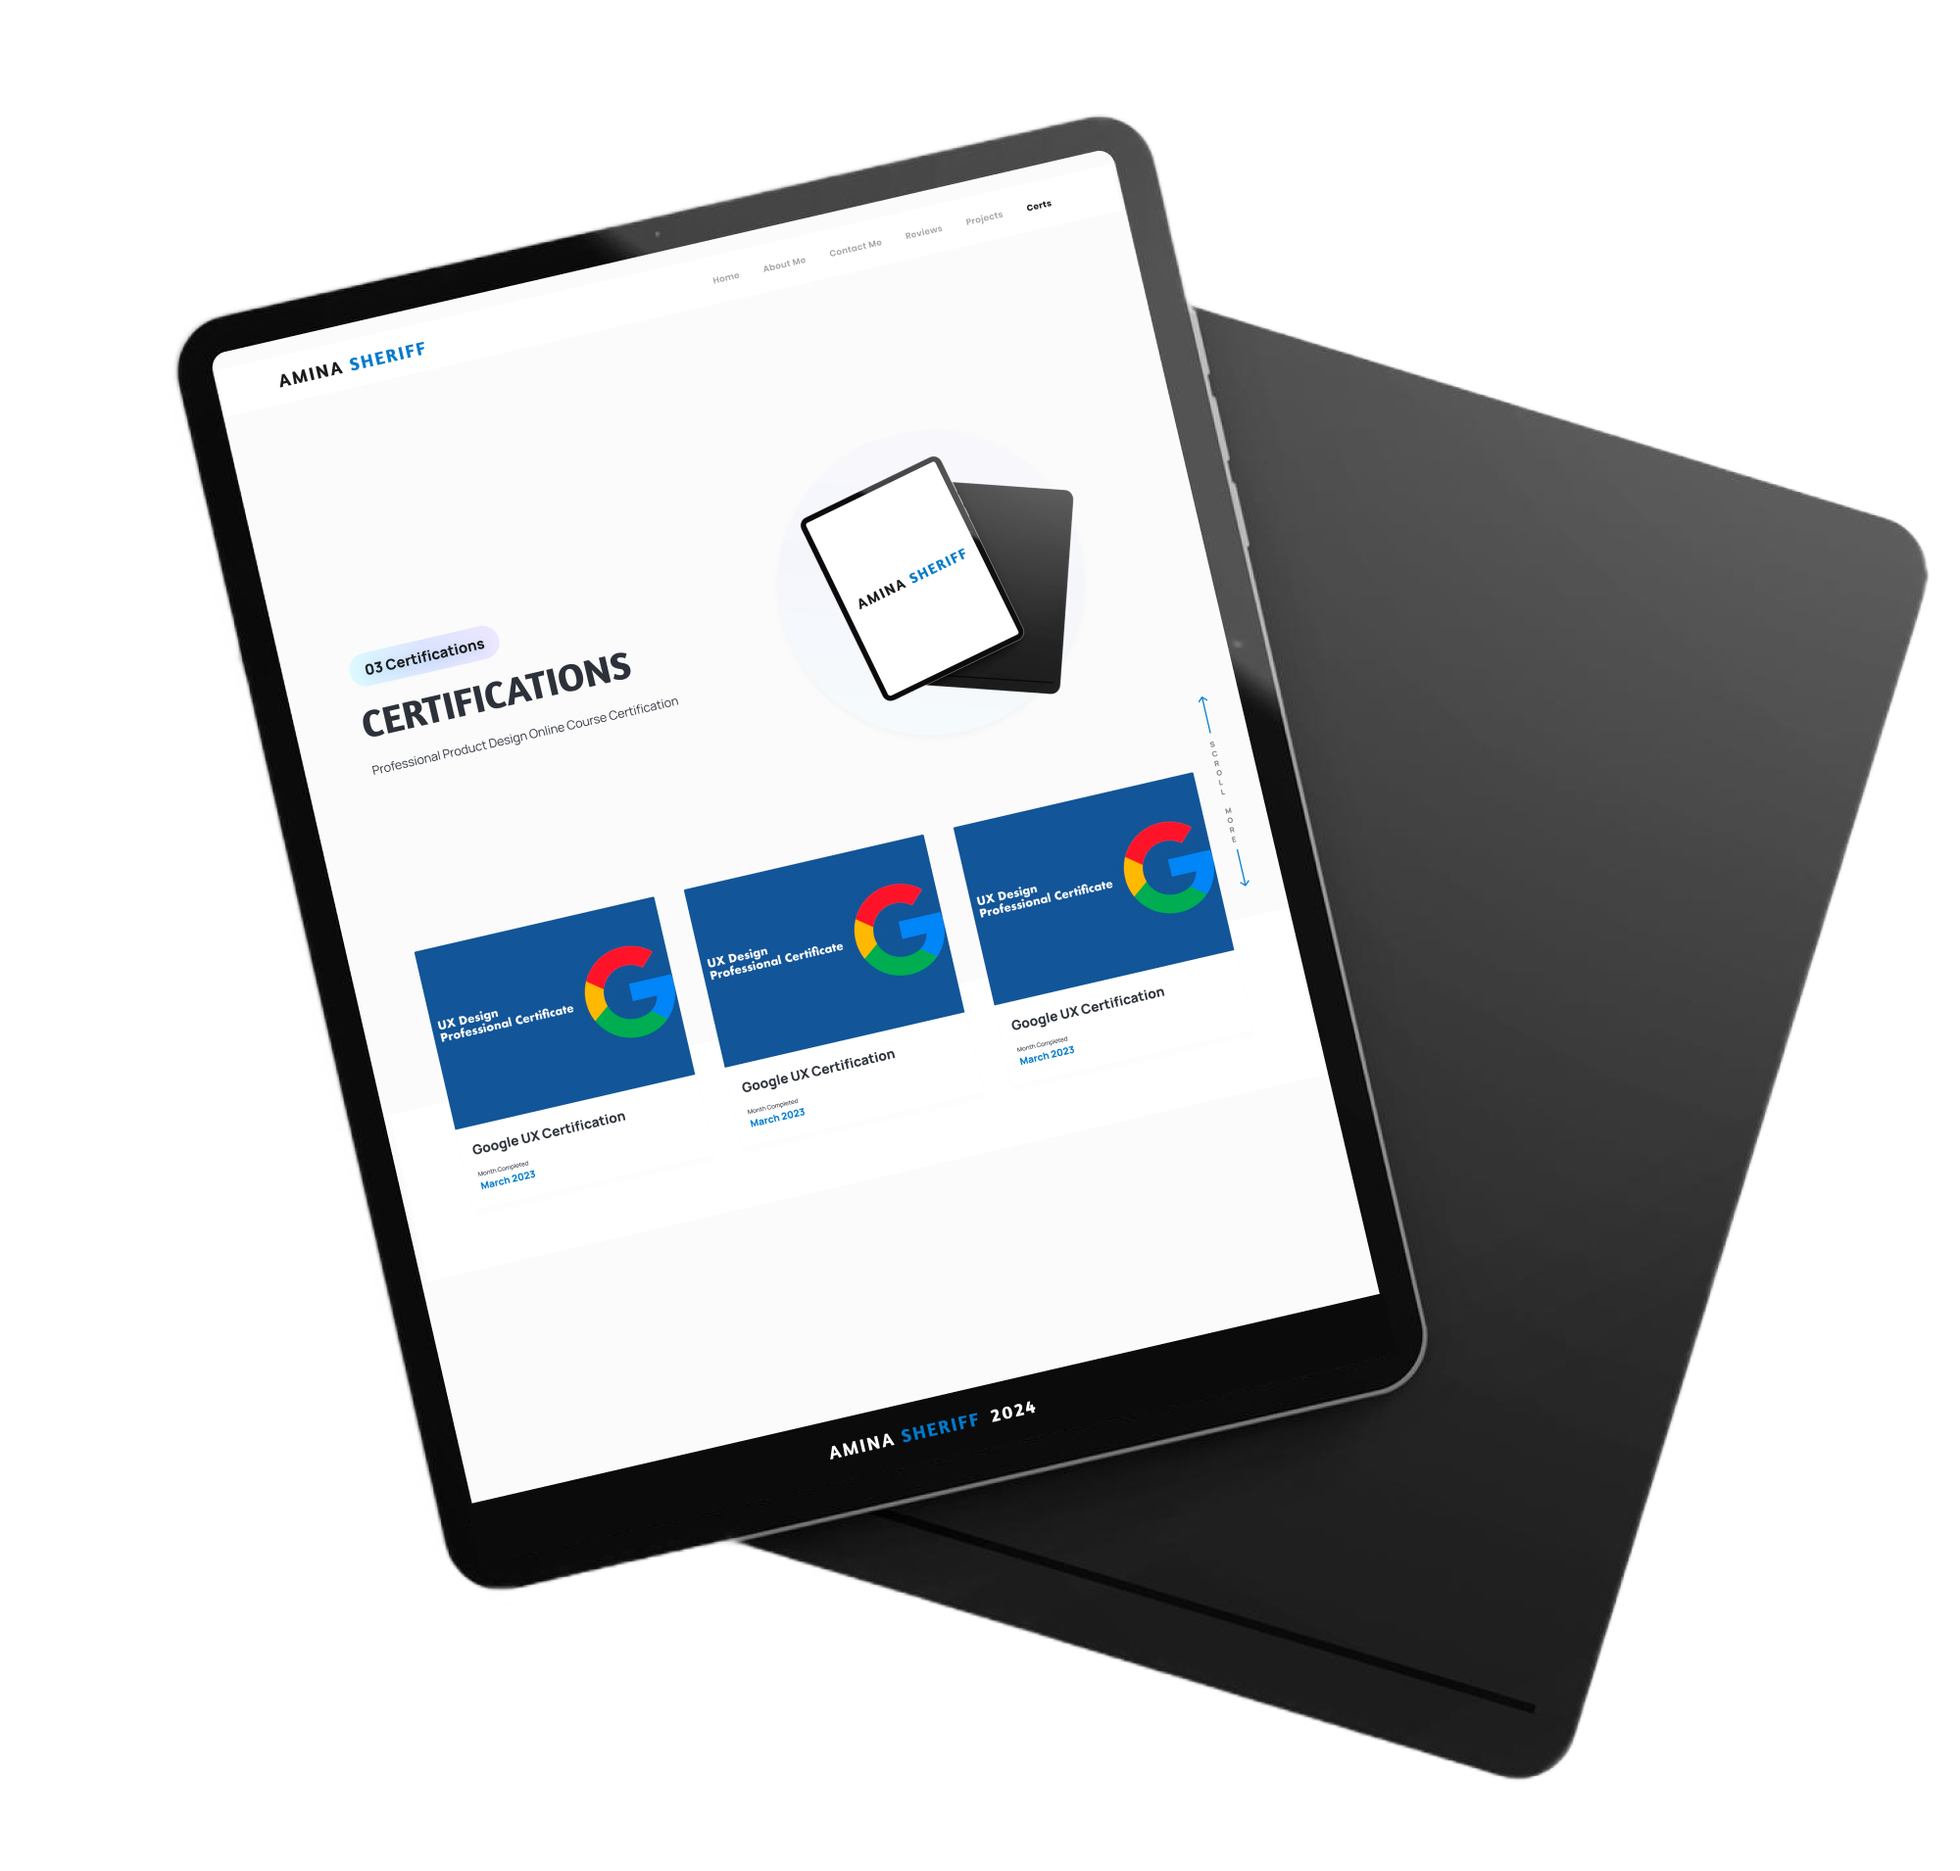
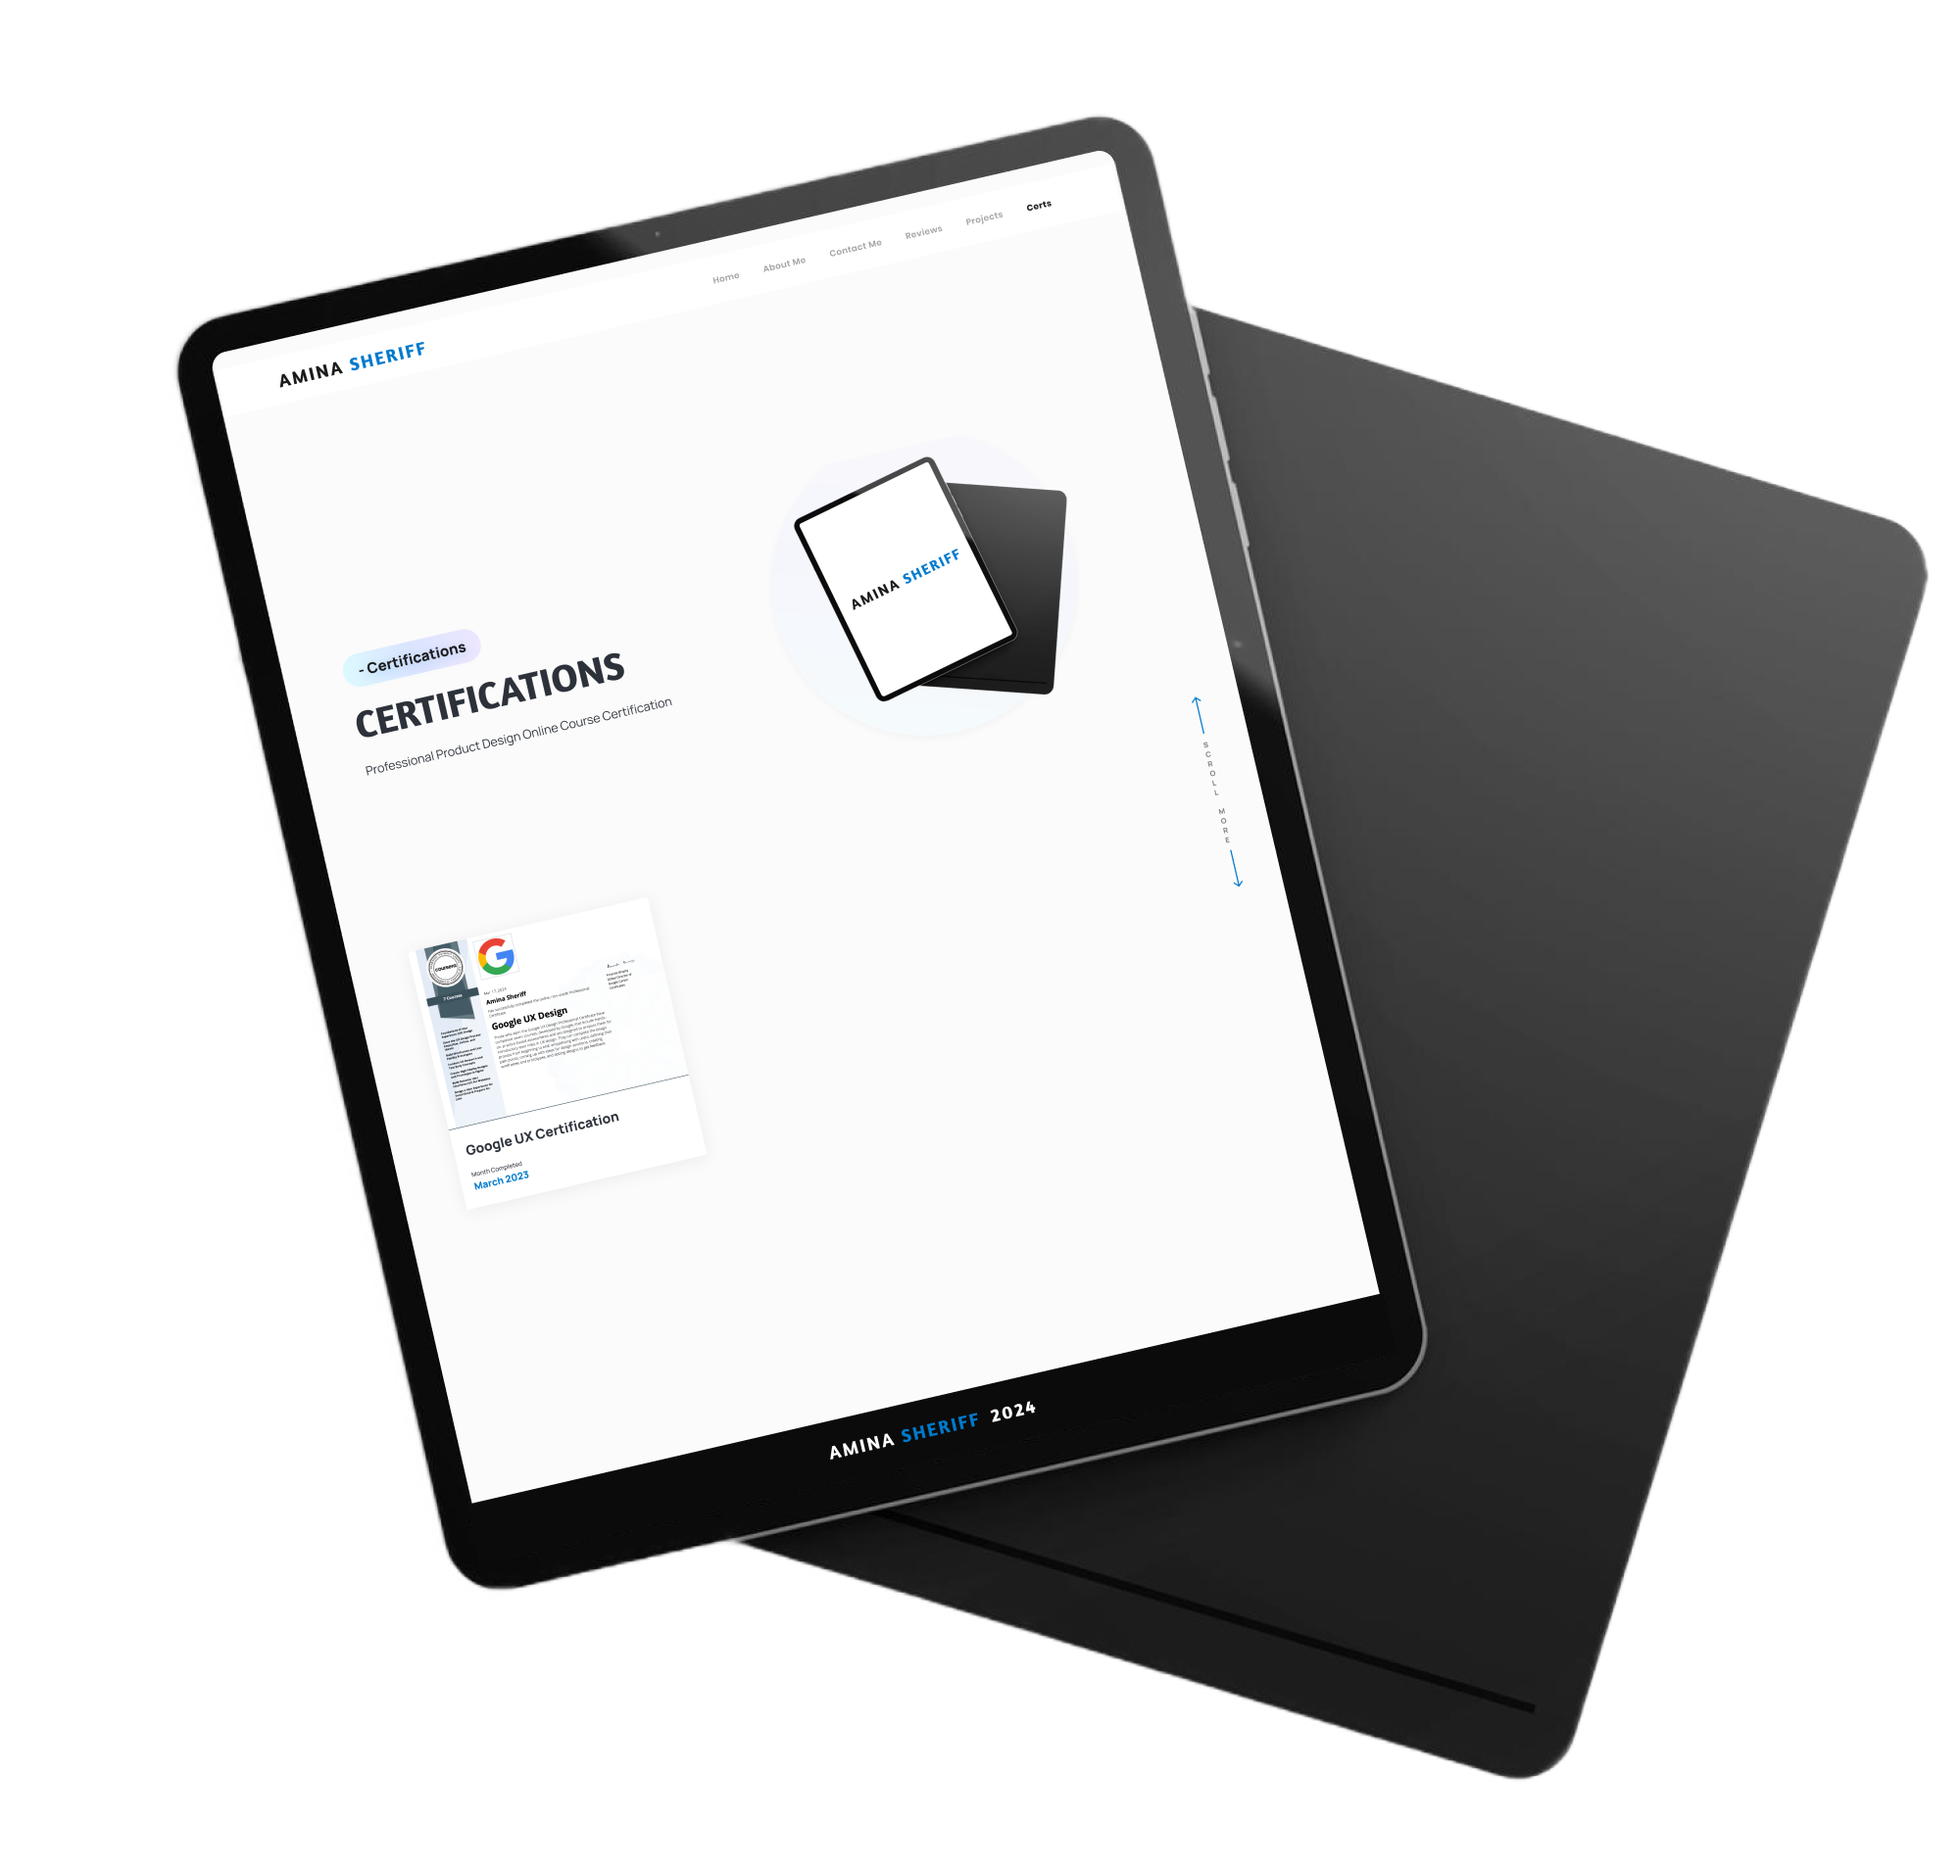
More Changes

Changed region(s): [[0.217, 0.4016, 0.651, 0.6487], [0.403, 0.2471, 0.558, 0.3707], [0.186, 0.3398, 0.341, 0.4325]]

diff --git a/index.html b/index.html
@@ -49,7 +49,7 @@
             <div class="row align-items-center">
                 <div class="col-md-6 text-box">
                     <div class="experience d-flex justify-content-center">
-                        <div>4yrs+ Experience</div>
+                        <div>5yrs+ Experience</div>
                     </div>
                     <h1>PRODUCT DESIGNER</h1>
                     <p>User Interface & Experience Design (Websites, Web-App, Responsive & Mobile Design), Content, Products Design</p>

diff --git a/projects.html b/projects.html
@@ -62,7 +62,7 @@
             <div class="row align-items-center">
                 <div class="col-md-6 text-box">
                     <div class="experience project d-flex justify-content-center">
-                        <span>15 Projects</span>
+                        <span>10 Projects</span>
                     </div>
                     <h1>PROJECTS</h1>
                     <p>Most recent Freelance Jobs and Contract projects i have worked on as an employee in a tech firm</p>

diff --git a/certifications.html b/certifications.html
@@ -62,7 +62,7 @@
             <div class="row align-items-center">
                 <div class="col-md-6 text-box">
                     <div class="experience cert d-flex justify-content-center">
-                        <span>03 Certifications</span>
+                        <span>01 Certifications</span>
                     </div>
                     <h1>CERTIFICATIONS</h1>
                     <p>Professional Product Design Online Course Certification</p>
